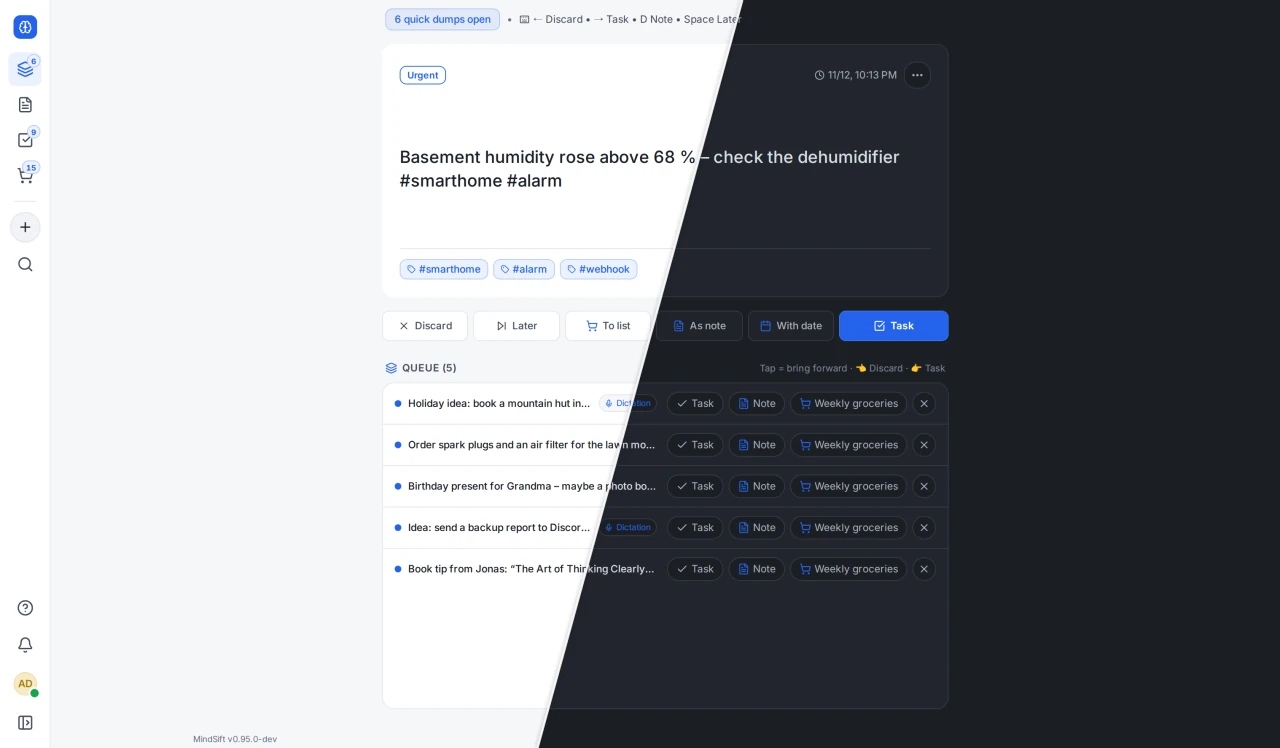
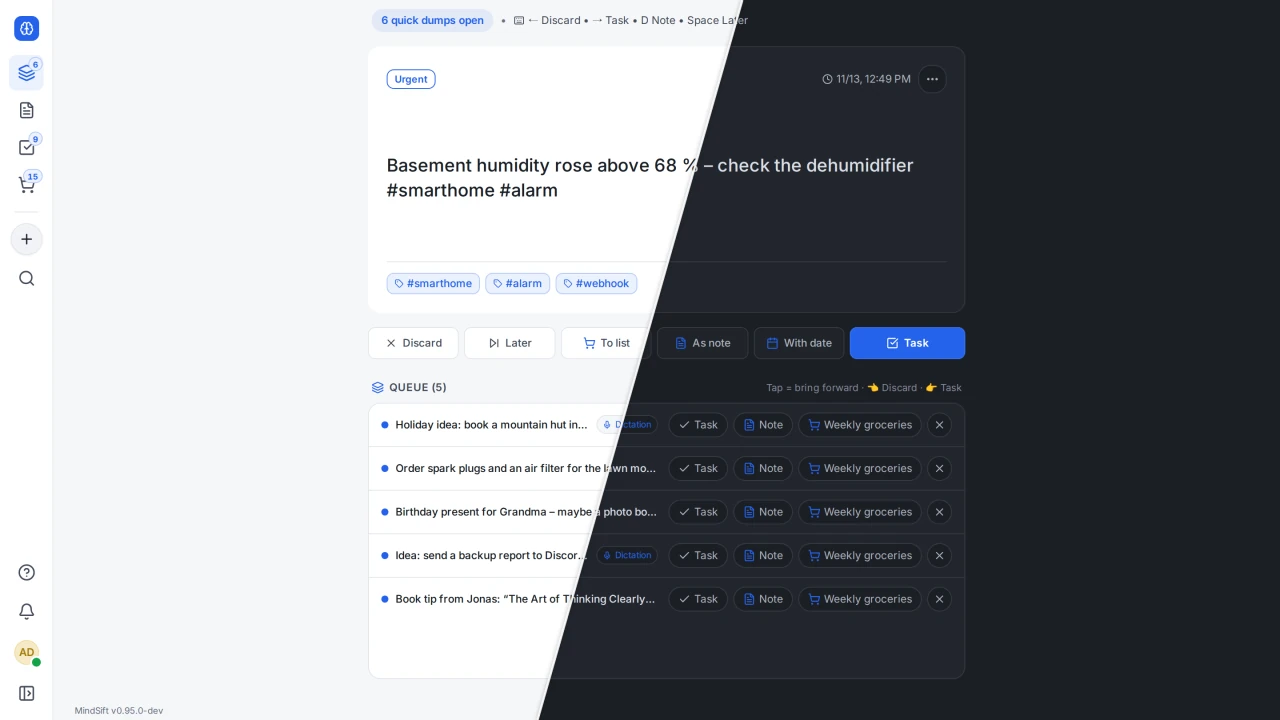
docs(readme): renew all screenshots in 16:9 with full width and the current calendar
The screenshot script switches views through their radio buttons (the old button lookup failed
silently) and now also takes the calendar picture.

diff --git a/README.md b/README.md
@@ -54,7 +54,7 @@ A to-do in a note can be kept as a full task with due date, column and alarm; ch
 </p>
 
 <p align="center">
-  <img src="screenshots/calendar_desktop.webp" alt="MindSift tasks in the calendar view: a month with tasks on their days, repeating tasks shown ahead, unscheduled tasks on the right" width="90%" />
+  <img src="screenshots/calendar_desktop.webp" alt="MindSift tasks in the calendar view: a month with tasks on their days, the chosen day and unscheduled tasks beside it" width="90%" />
 </p>
 
 ### 📅 Journal
